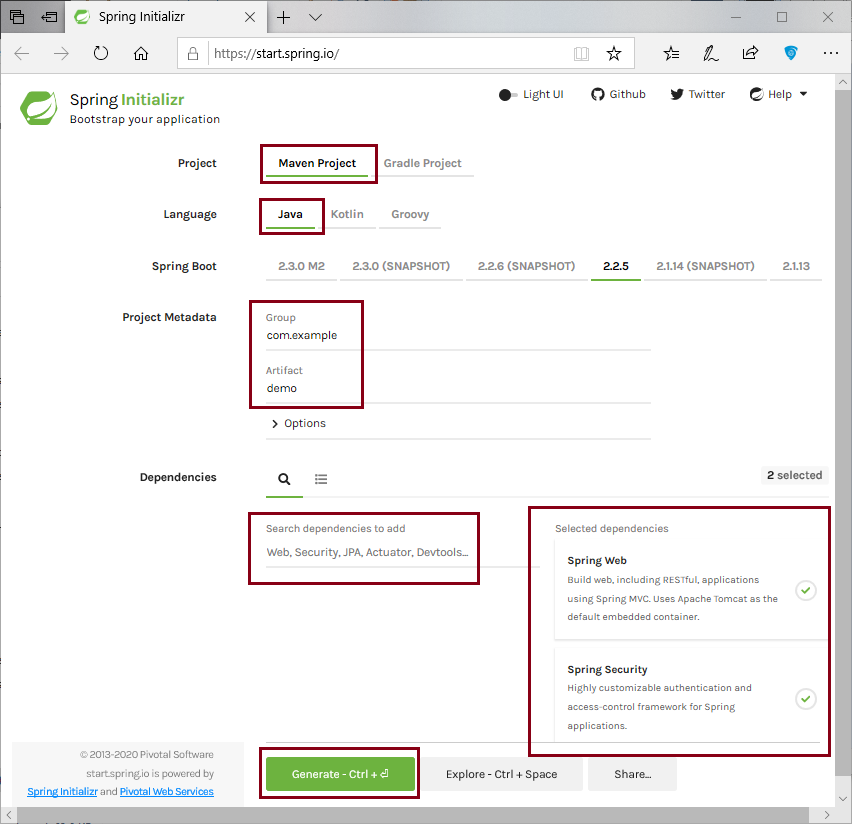
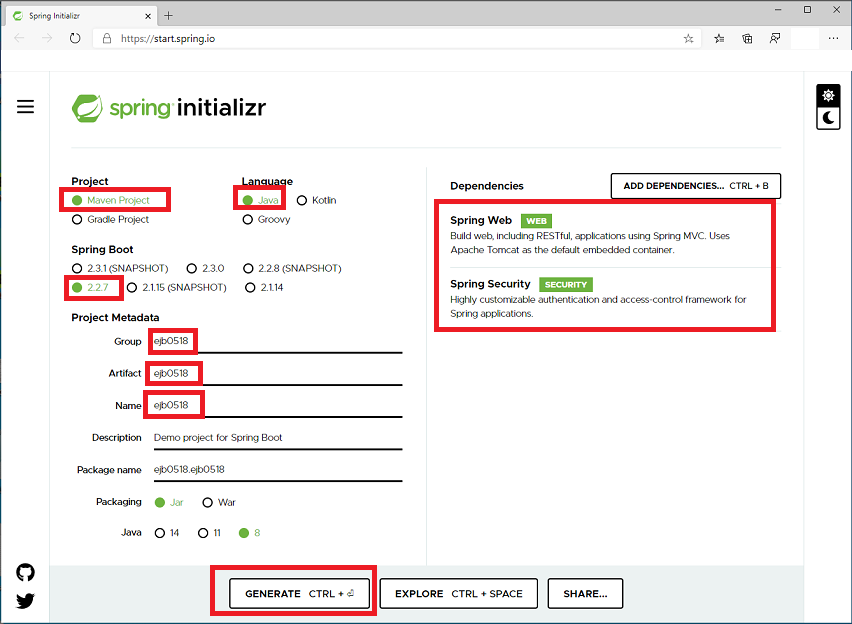
On branch edburns-si-157-aad-b2c-oidc Apply recommendations and technical writing improvements.  Make the text and images correct with respect to current state of AAD B2C modified:   articles/java/spring-framework/configure-spring-boot-starter-java-app-with-azure-active-directory-b2c-oidc.md modifie

diff --git a/articles/java/spring-framework/configure-spring-boot-starter-java-app-with-azure-active-directory-b2c-oidc.md b/articles/java/spring-framework/configure-spring-boot-starter-java-app-with-azure-active-directory-b2c-oidc.md
@@ -27,25 +27,76 @@ In this tutorial, you learn how to:
 > * Secure the application with Spring Boot classes and annotations
 > * Build and test your Java application
 
+Azure Active Directory is Microsoft's cloud scale enterprise identity
+solution.  Azure Active Directory B2C compliments the feature set of
+Azure Active Directory, allowing you to manage customer, consumer, and
+citizen access to your business-to-consumer (B2C) applications. Connect
+with millions of users with the scalability and availability you need.  For more on Azure Active directory see [the product home page](https://azure.microsoft.com/en-us/services/active-directory/).  For more on Azure Active Directory B2C see [the product home page](https://azure.microsoft.com/en-us/services/active-directory/external-identities/b2c/).
+
 If you don't have an Azure subscription, create a [free account](https://azure.microsoft.com/free/?WT.mc_id=A261C142F) before you begin.
 
-## Prerequisites
+## Prerequisites and Conventions
 
-The following prerequisites are required in order to complete the steps in this article:
+The following software and skill prerequisites are required in order to complete the steps in this article:
 
 * A supported Java Development Kit (JDK). For more information about the JDKs available for use when developing on Azure, see <https://aka.ms/azure-jdks>.
 * [Apache Maven](http://maven.apache.org/), version 3.0 or later.
+
+This article uses the convention of including name of your choice for
+items such as App Names, Group Id, Artifact Id and similar.  In the text
+this will be referred to as `yourString`.  For example, you could use
+your initials and the date, such as `ejb0518`.
 
 ## Create an app using Spring Initializr
 
 1. Browse to <https://start.spring.io/>.
 
-2. Specify that you want to generate a **Maven** project with **Java**, enter the **Group** and **Artifact** names for your application, and then select the **Web** and **Security** module of the Spring Initializr.
+2. Fill out the values according to this guidance.  Note that the labels
+   and layout may differ from the image shown here.
 
-   ![Specify Group and Aritifact names](media/configure-spring-boot-starter-java-app-with-azure-active-directory-b2c-oidc/si-n.png)
+   * Under **Project** select **Maven Project**.
+   
+   * Under **Language** select **Java**.
+   
+   * Under **Spring Boot** select **2.2.7**.
+   
+   * Under **Group**, **Artifact** and **Name** enter `yourString`.  The
+     UI may automatically fill some of these out as you type.
+     
+   * In the **Dependencies** pane, click "Add Dependencies".  Use the UI
+     to add dependencies on **Spring Web** and **Spring Security**.
+   
+   ![Fill in the values to generate the project](media/configure-spring-boot-starter-java-app-with-azure-active-directory-b2c-oidc/si-n.png)
 
 
-3. Click `Generate Project`, download the project to a path on your local computer when prompted.
+3. Click `Generate Project`, download the project to a path on your
+   local computer when prompted.  Move the downloaded file to a
+   directory titled `yourString`-project and unzip the file.  The file
+   layout should look something like the following, with `yourString` in
+   place of the value shown.
+   
+   ```
+   .
+   ├── HELP.md
+   ├── mvnw
+   ├── mvnw.cmd
+   ├── pom.xml
+   └── src
+       ├── main
+       │   ├── java
+       │   │   └── ejb0518
+       │   │       └── ejb0518
+       │   │           └── Ejb0518Application.java
+       │   └── resources
+       │       ├── application.properties
+       │       ├── static
+       │       └── templates
+       └── test
+           └── java
+               └── ejb0518
+                   └── ejb0518
+                       └── Ejb0518ApplicationTests.java
+   ```
 
 ## Create Azure Active Directory instance
 
@@ -65,7 +116,7 @@ The following prerequisites are required in order to complete the steps in this 
 
    ![Create new Azure Active Directory](media/configure-spring-boot-starter-java-app-with-azure-active-directory-b2c-oidc/az-2-n.png)
 
-5. Enter your Organization name and your Initial domain name, and save the domain name for later reference.  Click **Create**.
+5. For **Organization name** Enter your `yourString`org.  For **Initial domain name** enter `yourString`domain.  Click **Create**.
 
    ![Choose your Azure Active Directory](media/configure-spring-boot-starter-java-app-with-azure-active-directory-b2c-oidc/az-3-n.png)
 
@@ -75,28 +126,60 @@ The following prerequisites are required in order to complete the steps in this 
 
 ### Add an application registration for your Spring Boot app
 
-1. Select **Azure AD B2C** from the portal menu, click **Applications**, and then click **Add**.
+1. In the **Manage** pane on the left, click **Applications**, and then click **Add**.
 
    ![Add a new app registration](media/configure-spring-boot-starter-java-app-with-azure-active-directory-b2c-oidc/b2c1-n.png)
 
-2. Specify your application **Name**, add `http://localhost:8080/home` for the **Redirect URI**. Click **Save**.  Then record the **Application ID** as your `${your-client-id}`.  
+2. In the **Name** field, enter `yourString`.  Toggle the **include web
+   app/ web API** control to **Yes**.
+   
+   * In the **Reply URL** field enter `http://localhost:8080/home`.
+     Leave the other fields with their default values.
+     
+   Click **Create**.  It may take a short while before the application appears.  
 
    ![Add Application Redirect URI](media/configure-spring-boot-starter-java-app-with-azure-active-directory-b2c-oidc/b2c2-n.png)
 
-3. Select **Certificates & secrets** and click **New Client Secrete** to generate the key.
+3. Click on **Overview**, then **Applications**.  In the table of
+   applications, click on the row with name `yourString`.  In the
+   **General** pane select Keys, then click **Generate Key**.  In the
+   **App key** enter `yourString`key then click **Save**.  You may need
+   to wait a bit for the key to appear in the app key section, but when
+   it does, you must save aside its value.  It will be something like
+   `546KQ6Oj/FOK8.Qyv8XGN27C`.  For discussion let this be `yourAppKey`.
+   If you leave the **Keys** section and come back, you will to be able
+   to see the key value.  In that case, you must create another key
+   and save its value aside.
 
-   ![Create user flow](media/configure-spring-boot-starter-java-app-with-azure-active-directory-b2c-oidc/b2c3-n.png)
+   ![Create the secret](media/configure-spring-boot-starter-java-app-with-azure-active-directory-b2c-oidc/b2c3-n.png)
 
-4. Select **User flows** on your left, and then click **New user flow**.
+4. Click on **Overview**.  In the **Policies** section of the left pane, select **User flows**, then click **New user flow**.
 
-5. Choose **Sign up or in**, **Profile editing** and **Password reset** to create your user flow. For more information, see [Tutorial: Create user flows in Azure Active Directory B2C](/azure/active-directory-b2c/tutorial-create-user-flows). AAD B2C supports local accounts as well as social identity providers. For an example of creating a GitHub identity provider, see [Set up sign-up and sign-in with a GitHub account using Azure Active Directory B2C](/azure/active-directory-b2c/identity-provider-github).
-Be sure to select **Display Name** so it will be included in the claim token.
+5. You will now leave this tutorial, execute another tutorial, and come
+   back to this tutorial when you are done.  Here are some things to
+   keep in mind when you go to the other tutorial.
+   
+   * Start with the step that requests you to select **New User flow**.
+   
+   * When this tutorial refers to `webapp1` use `yourString` instead.
+   
+   * When you are asked to run the user flows, note that the redirect
+     url you specified above is not yet active.  You can still run the
+     flows, but the redirection will not complete successfully.  This is
+     ok.
+     
+   * When you reach "Next steps", return to this tutorial.
+   
+   Follow all the steps in [Tutorial: Create user flows in Azure Active Directory B2C](/azure/active-directory-b2c/tutorial-create-user-flows) to create user flows for "sign-up and sign in", "profile editing" and "password reset".
 
-   ![Create user flow](media/configure-spring-boot-starter-java-app-with-azure-active-directory-b2c-oidc/b2c-create-userflow.png)
+   AAD B2C supports local accounts as well as social identity providers. For an example of creating a GitHub identity provider, see [Set up sign-up and sign-in with a GitHub account using Azure Active Directory B2C](/azure/active-directory-b2c/identity-provider-github).
 
 ## Configure and compile your app
 
-1. Extract the files from the project archive you created and downloaded earlier in this tutorial into a directory.
+Now that you have created the AAD B2C instance and some user flows, we
+will connect your spring app to the AAD B2C instance.
+
+1. From the command line, cd to the `yourString`-project directory where you unzipped the `yourString`.zip file.
 
 2. Navigate to the parent folder for your project, and open the `pom.xml` Maven project file in a text editor.
 
@@ -106,21 +189,41 @@ Be sure to select **Display Name** so it will be included in the claim token.
    <dependency>
        <groupId>com.microsoft.azure</groupId>
        <artifactId>azure-active-directory-b2c-spring-boot-starter</artifactId>
-       <version>2.2.4</version>
+       <version>See Below</version>
    </dependency>
    <dependency>
        <groupId>org.springframework.boot</groupId>
        <artifactId>spring-boot-starter-thymeleaf</artifactId>
+       <version>See Below</version>
    </dependency>
    <dependency>
        <groupId>org.thymeleaf.extras</groupId>
        <artifactId>thymeleaf-extras-springsecurity5</artifactId>
+       <version>See Below</version>
    </dependency>
    ```
+   
+   For the `azure-active-directory-b2c-spring-boot-starter`, use the
+   latest version available.  You may be able to use
+   [mvnrepository.com](https://mvnrepository.com/artifact/com.microsoft.azure/azure-active-directory-spring-boot-starter)
+   to look this up.  As of this writing the latest version is `2.2.4`.
+   
+   For the `spring-boot-starter-thymeleaf`, use the version corresponding
+   to the version of Spring Boot you selected above, for example
+   `2.2.7.RELASE`.
+   
+   For `thymeleaf-extras-springsecurity5`, use the latest version
+   available.  You may be able to use
+   [mvnrepository.com](https://mvnrepository.com/artifact/org.thymeleaf.extras/thymeleaf-extras-springsecurity5)
+   to look this up.  As of this writing, the latest version is `3.0.4.RELEASE`.
 
 4. Save and close the *pom.xml* file.
 
-5. Navigate to the *src/main/resources* folder in your project and open the *application.yml* file in a text editor.
+   * Verify that your dependencies are correct by running `mvn
+     -DskipTests clean install`.  If you do not see `BUILD SUCCESS`,
+     troubleshoot and resolve the problem before continuing.
+
+5. Navigate to the *src/main/resources* folder in your project and create an *application.yml* file in a text editor.
 
 6. Specify the settings for your app registration using the values you created earlier; for example:
 
@@ -128,42 +231,33 @@ Be sure to select **Display Name** so it will be included in the claim token.
    azure:
      activedirectory:
        b2c:
-         tenant: ${your-tenant-name} # This is also the first part of your domain name before "onmicrosoft.com".
-         client-id: ${your-client-id}
-         client-secret: ${your-client-secret}
-         reply-url: ${your-redirect-uri-from-aad} # This should be an absolute URL.
-         logout-success-url: ${you-logout-success-url}
+         tenant: `yourString`domain
+         client-id: `yourString`
+         client-secret: `yourAppKey`
+         reply-url: http://localhost:8080/home
+         logout-success-url: http://localhost:8080/home
          user-flows:
-           sign-up-or-sign-in: ${your-sign-up-or-in-user-flow}
-           profile-edit: ${your-profile-edit-user-flow}     # optional
-           password-reset: ${your-password-reset-user-flow} # optional
+           sign-up-or-sign-in: B2C_1_signupsignin1
+           profile-edit: B2C_1_profileediting1
+           password-reset: B2C_1_passwordreset1
    ```
-   Where:
-
-   | Parameter | Description |
-   |---|---|
-   | `azure.activedirectory.b2c.tenant` | Contains your AD B2C's `${your-tenant-name` from earlier. |
-   | `azure.activedirectory.b2c.client-id` | Contains the `${your-client-id}` from your application that you completed earlier. |
-   | `azure.activedirectory.b2c.client-secret` | Contains the `${your-client-secret}` from your application that you completed earlier. |
-   | `azure.activedirectory.b2c.reply-url` | Contains one of the **Redirect URI** from your application that you completed earlier. |
-   | `azure.activedirectory.b2c.logout-success-url` | Specify the URL when your application logout successfully. |
-   | `azure.activedirectory.b2c.user-flows` | Contains the name of the user flows that you completed earlier.
 
    > [!NOTE]
    > 
-   > For a full list of values that are available in your *application.yml* file, see the [Azure Active Directory B2C Spring Boot Sample][AAD B2C Spring Boot Sample] on GitHub.
+   > For a full list of values that are available in your *application.yml* file, see the [Azure Active Directory B2C Spring Boot Sample](https://github.com/microsoft/azure-spring-boot/blob/master/azure-spring-boot-samples/azure-active-directory-b2c-oidc-spring-boot-sample/src/main/resources/application.yml) on GitHub.
    >
 
 7. Save and close the *application.yml* file.
 
-8. Create a folder named *controller* in the Java source folder for your application.
+8. Create a folder named *controller* in `src/main/java/yourString/yourString/`.
 
 9. Create a new Java file named *WebController.java* in the *controller* folder and open it in a text editor.
 
-10. Enter the following code, then save and close the file:
+10. Enter the following code, changing `yourString` appropriately, then
+    save and close the file:
 
     ```java
-    package com.example.demo.controller;
+    package yourString.yourString.controller;
     
     import org.springframework.security.oauth2.client.authentication.OAuth2AuthenticationToken;
     import org.springframework.security.oauth2.core.user.OAuth2User;
@@ -206,14 +300,14 @@ Be sure to select **Display Name** so it will be included in the claim token.
     }
     ```
 
-11. Create a folder named *security* in the Java source folder for your application.
+11. 8. Create a folder named *security* in `src/main/java/yourString/yourString/`.
 
 12. Create a new Java file named *WebSecurityConfiguration.java* in the *security* folder and open it in a text editor.
 
 13. Enter the following code, then save and close the file:
 
     ```java
-    package com.example.demo.security;
+    package yourString.yourString.security;
     
     import com.microsoft.azure.spring.autoconfigure.b2c.AADB2COidcLoginConfigurer;
     import org.springframework.security.config.annotation.web.builders.HttpSecurity;
@@ -241,7 +335,7 @@ Be sure to select **Display Name** so it will be included in the claim token.
         }
     }
     ```
-14. Copy the `greeting.html` and `home.html` from [Azure AD B2C Spring Boot Sample](https://github.com/Microsoft/azure-spring-boot/tree/master/azure-spring-boot-samples/azure-active-directory-b2c-oidc-spring-boot-sample/src/main/resources/templates), and replace the
+14. Copy the `greeting.html` and `home.html` from [Azure AD B2C Spring Boot Sample](https://github.com/Microsoft/azure-spring-boot/tree/master/azure-spring-boot-samples/azure-active-directory-b2c-oidc-spring-boot-sample/src/main/resources/templates) to `src/main/resources/templates`, and replace the
 `${your-profile-edit-user-flow}` and `${your-password-reset-user-flow}` with your user flow name
 respectively that completed earlier.
 
@@ -252,8 +346,8 @@ respectively that completed earlier.
 2. Build your Spring Boot application with Maven and run it; for example:
 
    ```shell
-   mvn clean package
-   mvn spring-boot:run
+   mvn -DskipTests clean package
+   mvn -DskipTests spring-boot:run
    ```
 
 3. After your application is built and started by Maven, open `http://localhost:8080/` in a web browser; 
